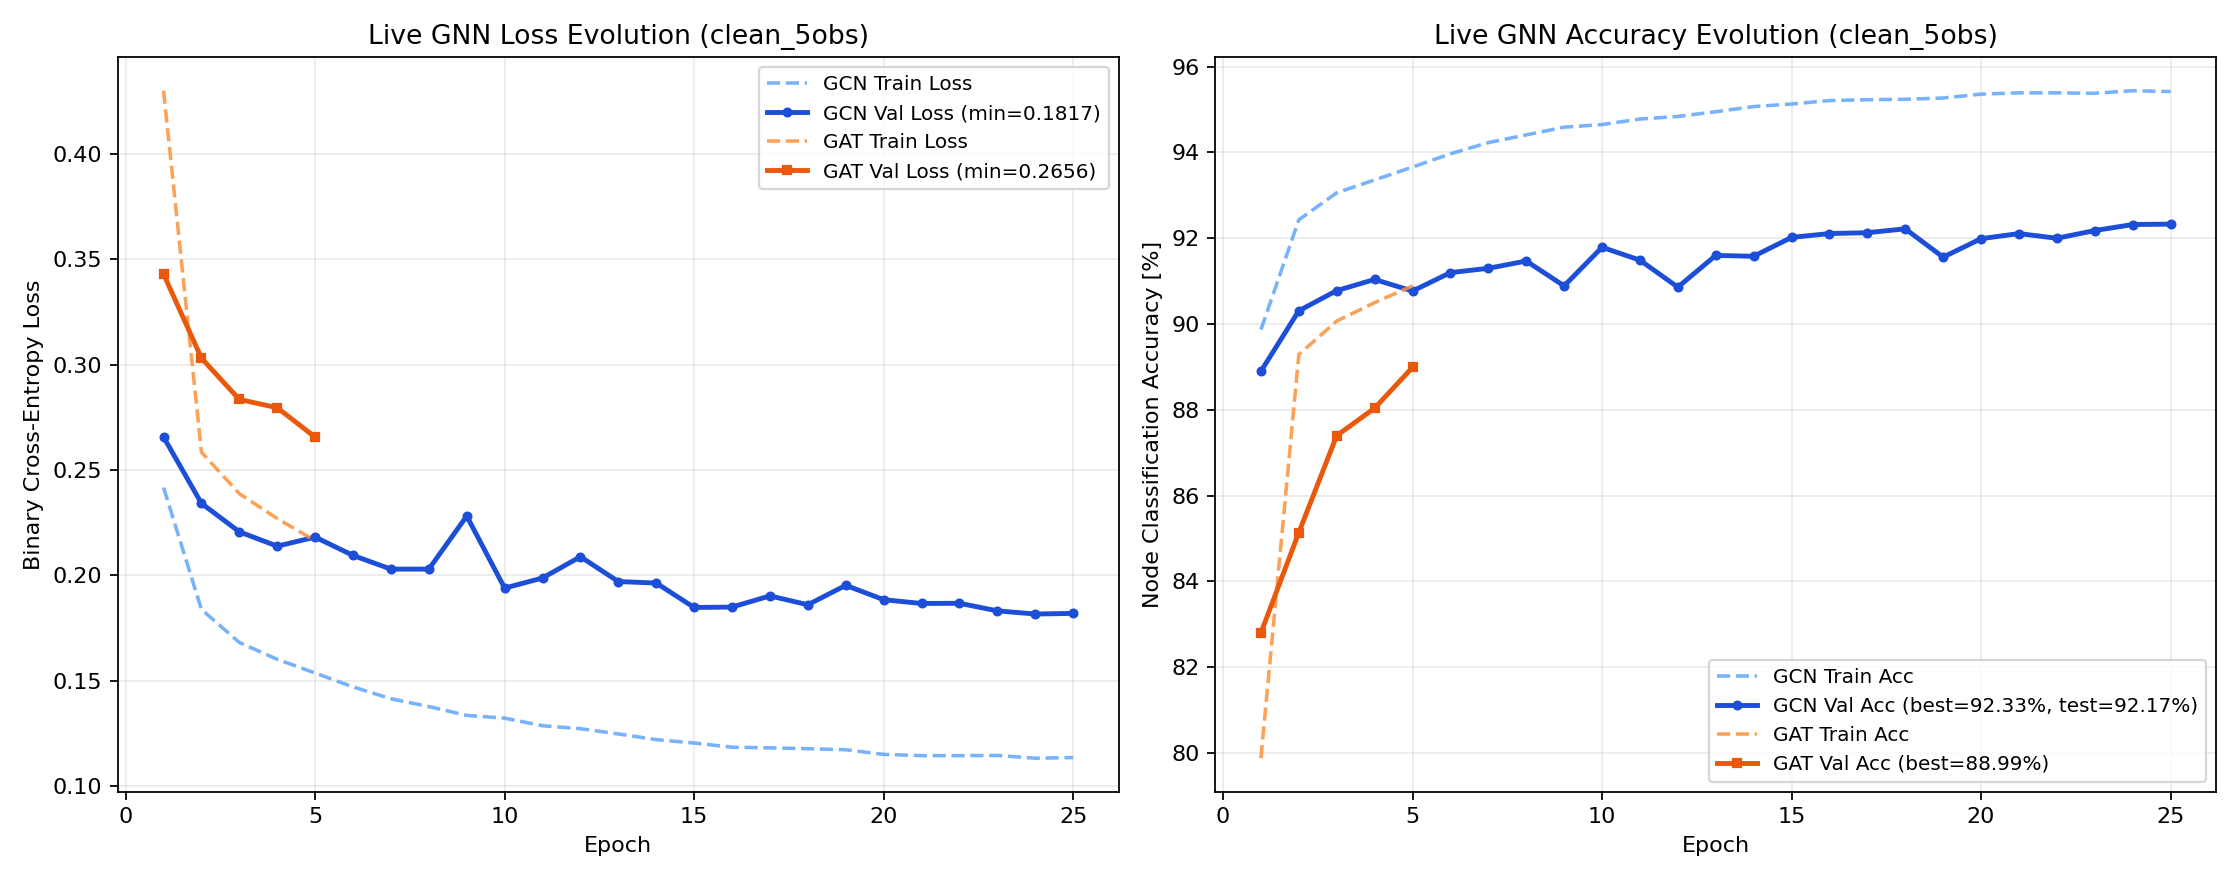
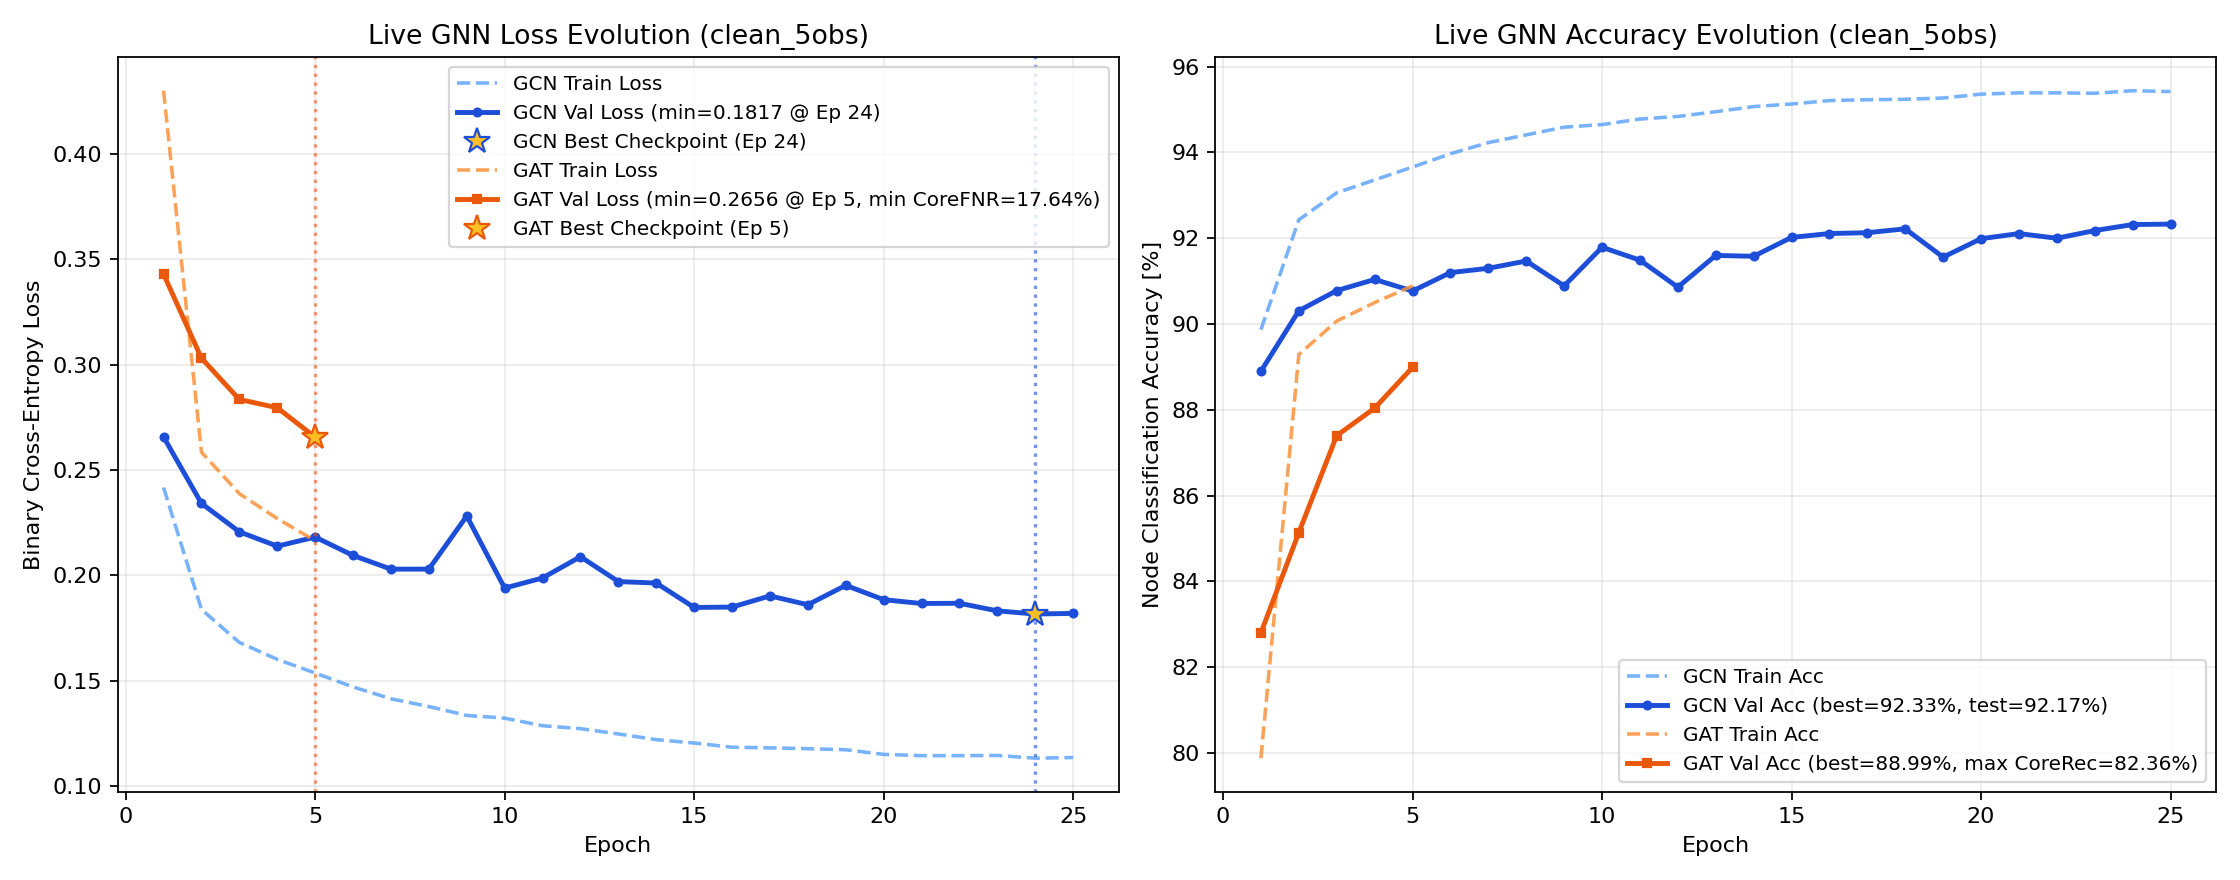
Update Study 2 live status and figures (2026-11-12 18:36)

diff --git a/LIVE_STATUS.md b/LIVE_STATUS.md
@@ -1,30 +1,44 @@
 # Live Pipeline Status on Jed
 
 ```text
-[2026-11-12 18:35:16] Study 2 Pipeline Status on Jed
+[2026-11-12 18:36:57] Study 2 Pipeline Status on Jed
 - Step 1 (Plummer ICs): 81 / 81 ready
 - Step 2 (SWIFT Runs): 81 / 81 completed (101 snapshots)
 - Step 3 (Observables): Labels=81/81 | Clean=81/81 | GaiaNoisy=81/81
 - Step 4 (5D Graphs): Clean=81/81 | GaiaNoisy=81/81
 - Step 5/6 Live GNN Training Progress:
-  * clean_5obs/training_metrics_gat_clean.log: Ep 005 | Train 0.2165 (90.89%) | Val 0.2656 (88.99%, Best=88.99%) | Test=In progress
+  * clean_5obs/training_metrics_gat_clean.log: Ep 005 | Train 0.2165 (90.89%) | Val 0.2656 (88.99%, Best=88.99%) | CoreFNR: 17.64% (min=17.64%) | Test=In progress
   * clean_5obs/training_metrics_gcn_clean.log: Ep 025 | Train 0.1136 (95.42%) | Val 0.1820 (92.33%, Best=92.33%) | Test=92.17%
   * legacy/clean_5obs_static_5rot/training_metrics_gcn_clean.log: Ep 025 | Train 0.1136 (95.42%) | Val 0.1820 (92.33%, Best=92.33%) | Test=92.17%
+- Saved Model Checkpoints (.pth): 8 mirrored in GNN-jed/trained_models/study2/weights/
 
 SLURM Queue:
 JOBID  PARTITION                   NAME   ST       TIME  NODES NODELIST(REASON)
       41146836   academic Study2_Step7_GCNStocha   PD       0:00      2 (Dependency)
 41146835_[0-4%   academic      Study2_Step6_4Obs   PD       0:00      2 (Dependency)
-      41146834   academic   Study2_Step5_Train81    R    3:50:46      2 jst[317,320]
+      41146834   academic   Study2_Step5_Train81    R    3:51:04      2 jst[317,320]
 ```
 
 ## Live Neural Network Training Metrics
 
-| Experiment | Architecture | Latest Epoch | Train Loss | Train Acc | Val Loss | Val Acc | Best Val Acc | Test Acc | Test F1 |
-| :--- | :---: | :---: | :---: | :---: | :---: | :---: | :---: | :---: | :---: |
-| `clean_5obs` | **GAT** | 5 | 0.2165 | 90.89% | 0.2656 | 88.99% | **88.99%** | **In progress** | - |
-| `clean_5obs` | **GCN** | 25 | 0.1136 | 95.42% | 0.1820 | 92.33% | **92.33%** | **92.17%** | 0.8886 |
-| `clean_5obs_static_5rot` | **GCN** | 25 | 0.1136 | 95.42% | 0.1820 | 92.33% | **92.33%** | **92.17%** | 0.8886 |
+| Experiment | Architecture | Latest Epoch | Train Loss | Train Acc | Val Loss | Val Acc | Best Val Acc | Core FNR | Test Acc | Test F1 |
+| :--- | :---: | :---: | :---: | :---: | :---: | :---: | :---: | :---: | :---: | :---: |
+| `clean_5obs` | **GAT** | 5 | 0.2165 | 90.89% | 0.2656 | 88.99% | **88.99%** | 17.64% (val min) | **In progress** | - |
+| `clean_5obs` | **GCN** | 25 | 0.1136 | 95.42% | 0.1820 | 92.33% | **92.33%** | - | **92.17%** | 0.8886 |
+| `clean_5obs_static_5rot` | **GCN** | 25 | 0.1136 | 95.42% | 0.1820 | 92.33% | **92.33%** | - | **92.17%** | 0.8886 |
+
+## Saved Model Weights (`.pth` Checkpoints)
+
+| Checkpoint | Size | Experiment Path | Central Archive Mirror |
+| :--- | :---: | :--- | :--- |
+| `best_gat_clean.pth` | 361.2 KB | `GNN-jed/trained_models/study2/clean_5obs/best_gat_clean.pth` | `GNN-jed/trained_models/study2/weights/best_gat_clean.pth` |
+| `best_gat_clean_ep18_backup.pth` | 361.2 KB | `GNN-jed/trained_models/study2/clean_5obs/best_gat_clean_ep18_backup.pth` | `GNN-jed/trained_models/study2/weights/best_gat_clean_ep18_backup.pth` |
+| `best_gcn_clean.pth` | 120.0 KB | `GNN-jed/trained_models/study2/clean_5obs/best_gcn_clean.pth` | `GNN-jed/trained_models/study2/weights/best_gcn_clean.pth` |
+| `best_gat_clean_ep18_backup.pth` | 361.2 KB | `GNN-jed/trained_models/study2/legacy/clean_5obs_static_5rot/best_gat_clean_ep18_backup.pth` | `GNN-jed/trained_models/study2/weights/best_gat_clean_ep18_backup.pth` |
+| `best_gcn_clean.pth` | 120.0 KB | `GNN-jed/trained_models/study2/legacy/clean_5obs_static_5rot/best_gcn_clean.pth` | `GNN-jed/trained_models/study2/weights/best_gcn_clean.pth` |
+| `best_gat_clean.pth` | 361.2 KB | `GNN-jed/trained_models/study2/legacy/weights/best_gat_clean.pth` | `GNN-jed/trained_models/study2/weights/best_gat_clean.pth` |
+| `best_gat_clean_ep18_backup.pth` | 361.2 KB | `GNN-jed/trained_models/study2/legacy/weights/best_gat_clean_ep18_backup.pth` | `GNN-jed/trained_models/study2/weights/best_gat_clean_ep18_backup.pth` |
+| `best_gcn_clean.pth` | 120.0 KB | `GNN-jed/trained_models/study2/legacy/weights/best_gcn_clean.pth` | `GNN-jed/trained_models/study2/weights/best_gcn_clean.pth` |
 
 ## Real-Time GNN Learning Curves (Loss & Accuracy Evolution)
 
